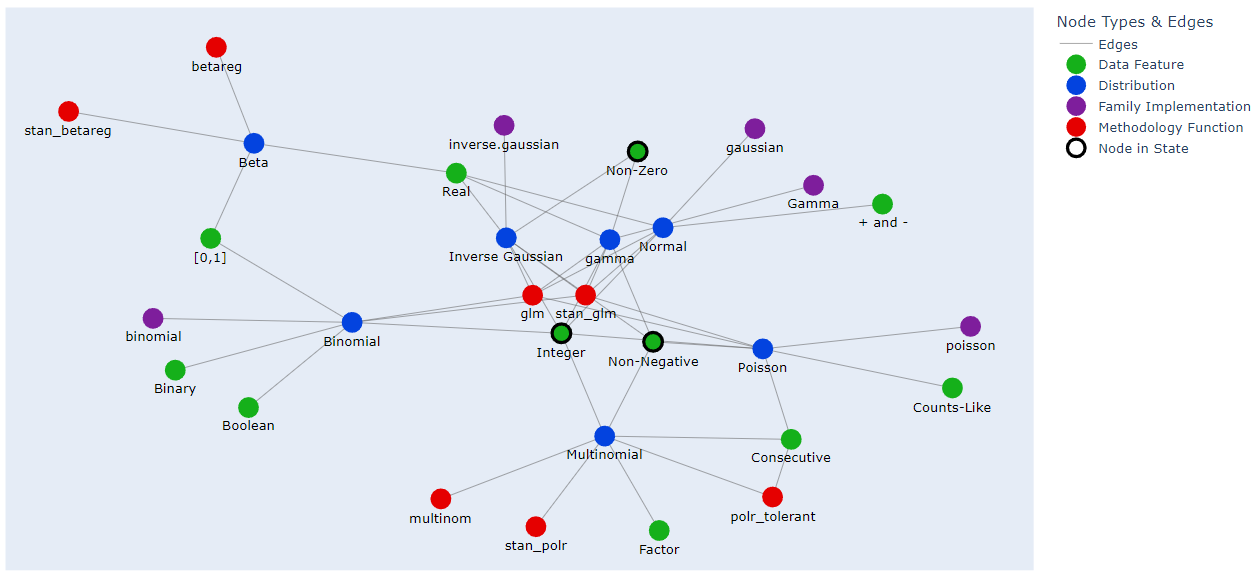
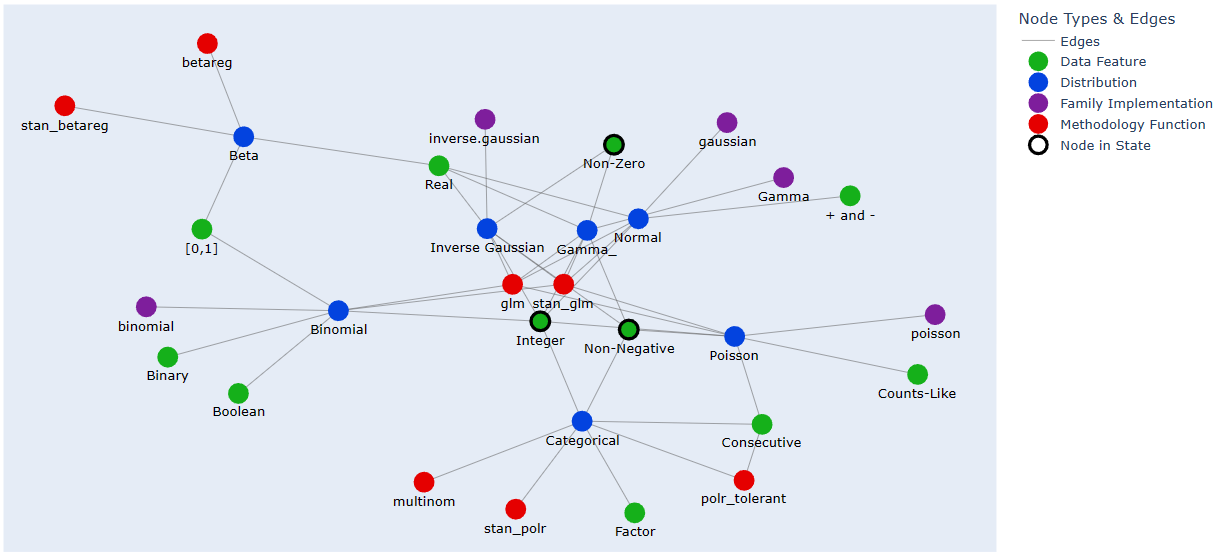
Added conditional steps (i.e. the option to execute only if no nodes of the requested type are already in the state). Slightly updated plots.

diff --git a/Graph_State_Machine/gsm.py b/Graph_State_Machine/gsm.py
@@ -45,28 +45,43 @@ class GSM:
         '''Note: this method just returns the step result; it does not update the state'''
         return self.scanner(self.graph, self.selector(self.state), *args, **kwargs)
 
-    def step(self, *args, **kwargs):
-        '''Scan nodes of interest and perform a step (i.e. have the step_handler update the state by processing the scan result)'''
-        if args and kwargs: raise TypeError('Step function arguments should be either all named or all unnamed')
-        def f():
-            scan_result = self._scan(*args, **kwargs)
-            self.log.append(dict(method = 'step', scan_result = scan_result, scanner_arguments = self._ensure_scanner_args_are_named(args, kwargs)))
-            self.state, self.graph = self.updater(self.state, self.graph, scan_result)
-        expand_user_warning(f, lambda: f'; last log entry: {self.log[-1]}')
+    def step(self, *args, conditional = False, **kwargs):
+        '''Scan nodes of interest and perform a step (i.e. have the step_handler update the state by processing the scan result).
+            If conditional == True, the step is performed only if no node of the requested type is in state.
+                In that case an ASSUMPTION is made:
+                that the first (named or unnamed) argument of scanner (after graph and state) is a singleton list of the type of node to look for'''
+        if args and kwargs: raise TypeError('Step function arguments should be either all named or all unnamed (except for "conditional", which should always be named)')
+        node_type = (args if args else (list(kwargs.values())))[0][0]
+        if conditional and self.type_in_state(node_type):
+            warnings.warn(f'Step of type \'{node_type}\' not taken because nodes of that type were already in state')
+            return self
+        else:
+            def f():
+                scan_result = self._scan(*args, **kwargs)
+                self.log.append(dict(method = 'step', scan_result = scan_result, scanner_arguments = self._ensure_scanner_args_are_named(args, kwargs)))
+                self.state, self.graph = self.updater(self.state, self.graph, scan_result)
+            expand_user_warning(f, lambda: f'; last log entry: {self.log[-1]}')
         return self
 
-    def consecutive_steps(self, *scanners_arguments):
-        '''Perform steps of the given node types one after the other, i.e. using the progressively updated state for each new step'''
-        for ss in scanners_arguments: self.step(**self._ensure_scanner_args_are_named(ss))
+    def consecutive_steps(self, *scanners_arguments: List[Union[List, Dict]], conditional = False):
+        '''Perform steps of the given node types one after the other, i.e. using the progressively updated state for each new step.
+            Note: steps can be made either all standard or all conditional.'''
+        for ss in scanners_arguments: self.step(**self._ensure_scanner_args_are_named(ss), conditional = conditional)
         return self
 
-    def parallel_steps(self, *scanners_arguments: List[Union[List, Dict]]):
-        '''Perform steps of the given node types all starting from the same state, i.e. only apply state updates after scan results are known'''
+    def parallel_steps(self, *scanners_arguments: List[Union[List, Dict]], conditional = False):
+        '''Perform steps of the given node types all starting from the same state, i.e. only apply state updates after scan results are known.
+            Note: steps can be made either all standard or all conditional.'''
         scanners_arguments = [self._ensure_scanner_args_are_named(ss) for ss in scanners_arguments]
         scan_results = [self._scan(**ss) for ss in scanners_arguments]
         for rs, ss in zip(scan_results, scanners_arguments):
-            def f(): self.state, self.graph = self.updater(self.state, self.graph, rs)
-            expand_user_warning(f, lambda: f'; (parallel) step arguments: {ss}')
+            node_type = list(ss.values())[0][0] # no list check because ss is already guaranteed to be a dictionary
+            if conditional and self.type_in_state(node_type):
+                warnings.warn(f'Step of type \'{node_type}\' not taken because nodes of that type were already in state')
+                return self
+            else:
+                def f(): self.state, self.graph = self.updater(self.state, self.graph, rs)
+                expand_user_warning(f, lambda: f'; (parallel) step arguments: {ss}')
         self.log.append(dict(method = 'parallel_steps', scan_results = scan_results, scanners_arguments = scanners_arguments))
         return self
 
@@ -86,5 +101,7 @@ class GSM:
         '''If ss is not a dictionary of args, then line it up with the expected names and make it one; fallback to otherwise_dict if present'''
         return dict(zip(list(signature(self.scanner).parameters.keys())[2:], ss)) if ss and (isinstance(ss, list) or isinstance(ss, tuple)) else \
                 otherwise_dict if otherwise_dict else ss
+
+    def type_in_state(self, node_type: NodeType) -> bool: return node_type in self.graph.type_set(self.selector(self.state))
 
 

diff --git a/Tests/self_contained_showcase_nec_suff.py b/Tests/self_contained_showcase_nec_suff.py
@@ -4,10 +4,10 @@ _shorthand_graph = {
     'Distribution': {
         'Normal': dict(necessary_for = ['gaussian'], plain = ['stan_glm', 'glm']), # vv the 'are_sufficient' edges below are suggested by a warning
         'Binomial': dict(necessary_for = ['binomial'], plain = ['stan_glm', 'glm'], are_sufficient = [['Integer', '[0,1]']]),
-        'Multinomial': dict(necessary_for = ['multinom'], plain = ['stan_polr', 'polr_tolerant'], are_sufficient = [['Consecutive', 'Non-Negative', 'Integer']]),
+        'Categorical': dict(necessary_for = ['multinom'], plain = ['stan_polr', 'polr_tolerant'], are_sufficient = [['Consecutive', 'Non-Negative', 'Integer']]),
         'Poisson': dict(necessary_for = ['poisson'], plain = ['stan_glm', 'glm']),
         'Beta': dict(necessary_for = ['betareg'], plain = ['stan_betareg']),
-        'gamma': dict(necessary_for = ['Gamma'], plain = ['stan_glm', 'glm']),
+        'Gamma_': dict(necessary_for = ['Gamma'], plain = ['stan_glm', 'glm']),
         'Inverse Gaussian': dict(necessary_for = ['inverse.gaussian'], plain = ['stan_glm', 'glm']),
     }, # The end-nodes of the edges above need to be declared as of some type (below), but no need to repeat or split the edges
     'Family Implementation': strs_as_keys(['binomial', 'poisson', 'Gamma', 'gaussian', 'inverse.gaussian']),
@@ -15,10 +15,10 @@ _shorthand_graph = {
     'Data Feature': reverse_adjacencies({ # Reverse-direction definition here since more readable i.e. defining the contents of the lists
         'Binomial': dict(are_sufficient = ['Binary', 'Boolean', ['Integer', '[0,1]']]), # These generate an error which is downgraded to a warning below
         'Poisson': dict(are_necessary = ['Counts-Like', 'Non-Negative', 'Integer'], plain = ['Consecutive']),
-        'Multinomial': dict(are_sufficient = ['Factor', ['Consecutive', 'Non-Negative', 'Integer']]), # Same error/warning as above
+        'Categorical': dict(are_sufficient = ['Factor', ['Consecutive', 'Non-Negative', 'Integer']]), # Same error/warning as above
         'Normal': ['Integer', 'Real', '+ and -'],
         'Beta': dict(are_necessary = ['Real', '[0,1]']),
-        'gamma': dict(are_necessary = ['Non-Negative', 'Non-Zero'], plain = ['Integer', 'Real']),
+        'Gamma_': dict(are_necessary = ['Non-Negative', 'Non-Zero'], plain = ['Integer', 'Real']),
         'Inverse Gaussian': dict(are_necessary = ['Non-Negative', 'Non-Zero'], plain = ['Integer', 'Real']),
         'polr_tolerant': ['Consecutive']
     }, allow_losing_joint_sufficiency = True) # This downgrades an error to a warning which suggests to place some edges elsewhere

diff --git a/Graph_State_Machine/graph.py b/Graph_State_Machine/graph.py
@@ -1,3 +1,4 @@
+from operator import itemgetter
 import networkx as nx
 import numpy as np
 import matplotlib.colors as mcolors
@@ -142,7 +143,7 @@ class Graph:
 
     # Utility methods
 
-    def type_set(self, nodes: List[Node]) -> Set[NodeType]: return set(self.nodes_to_types[n] for n in nodes)
+    def type_set(self, nodes: List[Node]) -> Set[NodeType]: return set(itemgetter(*nodes)(self.nodes_to_types))
 
     def relevant_neighbours(self, nodes: List[Node], good_types: List[NodeType] = None, bad_types: List[NodeType] = None) -> List[List[Node]]:
         '''Return neighbours of state nodes of the specified types or all types if none specified'''
@@ -253,12 +254,13 @@ class Graph:
                                   line = dict(color = col, width = 2)) ))
 
             # Nodes in State
-            node_x, node_y = map(list, zip(*[coords[n] for n in nodes_with_outline]))
-            traces.append(go.Scatter(x = node_x, y = node_y,
-                name = 'Node in State', mode = 'markers', showlegend = True,
-                #legendgroup = 'State', legendgrouptitle_text = 'State',
-                marker = dict(showscale = False, size = 17, color = 'rgba(0,0,0,0)',
-                              line = dict(color = 'black', width = 3)) ))
+            if nodes_with_outline:
+                node_x, node_y = map(list, zip(*[coords[n] for n in nodes_with_outline]))
+                traces.append(go.Scatter(x = node_x, y = node_y,
+                    name = 'Node in State', mode = 'markers', showlegend = True,
+                    #legendgroup = 'State', legendgrouptitle_text = 'State',
+                    marker = dict(showscale = False, size = 17, color = 'rgba(0,0,0,0)',
+                                  line = dict(color = 'black', width = 3)) ))
 
             # All together
             fig = go.Figure(data = traces, layout = go.Layout(
@@ -281,6 +283,7 @@ class Graph:
                 for node in self.G.nodes:
                     fig.add_annotation(x = coords[node][0], y = coords[node][1], showarrow = False,
                         text = node, font = dict(size = 12, color = 'black'), yshift = -17)
+                        # textangle = -90, xshift = +17) # flip both signs to flip side
 
             # Centre legend (only useful for shell layout)
             # fig.update_layout(legend = dict(x = 0.45, y = 0.55, bgcolor = 'rgba(0,0,0,0)'))

diff --git a/Tests/self_contained_showcase.py b/Tests/self_contained_showcase.py
@@ -4,10 +4,10 @@ _shorthand_graph = {
     'Distribution': {
         'Normal': ['stan_glm', 'glm', 'gaussian'],
         'Binomial': ['stan_glm', 'glm', 'binomial'],
-        'Multinomial': ['stan_polr', 'polr_tolerant', 'multinom'],
+        'Categorical': ['stan_polr', 'polr_tolerant', 'multinom'],
         'Poisson': ['stan_glm', 'glm', 'poisson'],
         'Beta': ['stan_betareg', 'betareg'],
-        'gamma': ['stan_glm', 'glm', 'Gamma'],
+        'Gamma_': ['stan_glm', 'glm', 'Gamma'],
         'Inverse Gaussian': ['stan_glm', 'glm', 'inverse.gaussian']
     },
     'Family Implementation': strs_as_keys(['binomial', 'poisson', 'Gamma', 'gaussian', 'inverse.gaussian']),
@@ -15,10 +15,10 @@ _shorthand_graph = {
     'Data Feature': reverse_adjacencies({ # Reverse-direction definition here since more readable i.e. defining the contents of the lists
         'Binomial': ['Binary', 'Integer', '[0,1]', 'Boolean'],
         'Poisson': ['Non-Negative', 'Integer', 'Consecutive', 'Counts-Like'],
-        'Multinomial': ['Factor', 'Consecutive', 'Non-Negative', 'Integer'],
+        'Categorical': ['Factor', 'Consecutive', 'Non-Negative', 'Integer'],
         'Normal': ['Integer', 'Real', '+ and -'],
         'Beta': ['Real', '[0,1]'],
-        'gamma': ['Non-Negative', 'Integer', 'Real', 'Non-Zero'],
+        'Gamma_': ['Non-Negative', 'Integer', 'Real', 'Non-Zero'],
         'Inverse Gaussian': ['Non-Negative', 'Integer', 'Real', 'Non-Zero'],
         'polr_tolerant': ['Consecutive']
     })

diff --git a/Tests/self_contained_showcase_dict_state.py b/Tests/self_contained_showcase_dict_state.py
@@ -4,10 +4,10 @@ _shorthand_graph = {
     'Distribution': {
         'Normal': ['stan_glm', 'glm', 'gaussian'],
         'Binomial': ['stan_glm', 'glm', 'binomial'],
-        'Multinomial': ['stan_polr', 'polr_tolerant', 'multinom'],
+        'Categorical': ['stan_polr', 'polr_tolerant', 'multinom'],
         'Poisson': ['stan_glm', 'glm', 'poisson'],
         'Beta': ['stan_betareg', 'betareg'],
-        'gamma': ['stan_glm', 'glm', 'Gamma'],
+        'Gamma_': ['stan_glm', 'glm', 'Gamma'],
         'Inverse Gaussian': ['stan_glm', 'glm', 'inverse.gaussian']
     },
     'Family Implementation': strs_as_keys(['binomial', 'poisson', 'Gamma', 'gaussian', 'inverse.gaussian']),
@@ -15,10 +15,10 @@ _shorthand_graph = {
     'Data Feature': reverse_adjacencies({ # Reverse-direction definition here since more readable i.e. defining the contents of the lists
         'Binomial': ['Binary', 'Integer', '[0,1]', 'Boolean'],
         'Poisson': ['Non-Negative', 'Integer', 'Consecutive', 'Counts-Like'],
-        'Multinomial': ['Factor', 'Consecutive', 'Non-Negative', 'Integer'],
+        'Categorical': ['Factor', 'Consecutive', 'Non-Negative', 'Integer'],
         'Normal': ['Integer', 'Real', '+ and -'],
         'Beta': ['Real', '[0,1]'],
-        'gamma': ['Non-Negative', 'Integer', 'Real', 'Non-Zero'],
+        'Gamma_': ['Non-Negative', 'Integer', 'Real', 'Non-Zero'],
         'Inverse Gaussian': ['Non-Negative', 'Integer', 'Real', 'Non-Zero'],
         'polr_tolerant': ['Consecutive']
     })

diff --git a/Graph_State_Machine/Util/misc.py b/Graph_State_Machine/Util/misc.py
@@ -45,8 +45,9 @@ def reverse_adjacencies(one_type_graph: Dict[str, List[str]], allow_losing_singl
 
     return reverse_subgraph
 
-def strs_as_keys(strs: List[str], unique_value: List[str] = []) -> Dict[str, List[str]]:
+def strs_as_keys(strs: List[str], unique_value: List[str] = None) -> Dict[str, List[str]]:
     '''Make a dictionary with the given keys and all the values being the provided one'''
+    if not unique_value: unique_value = []
     return {t: unique_value for t in strs}
 
 
